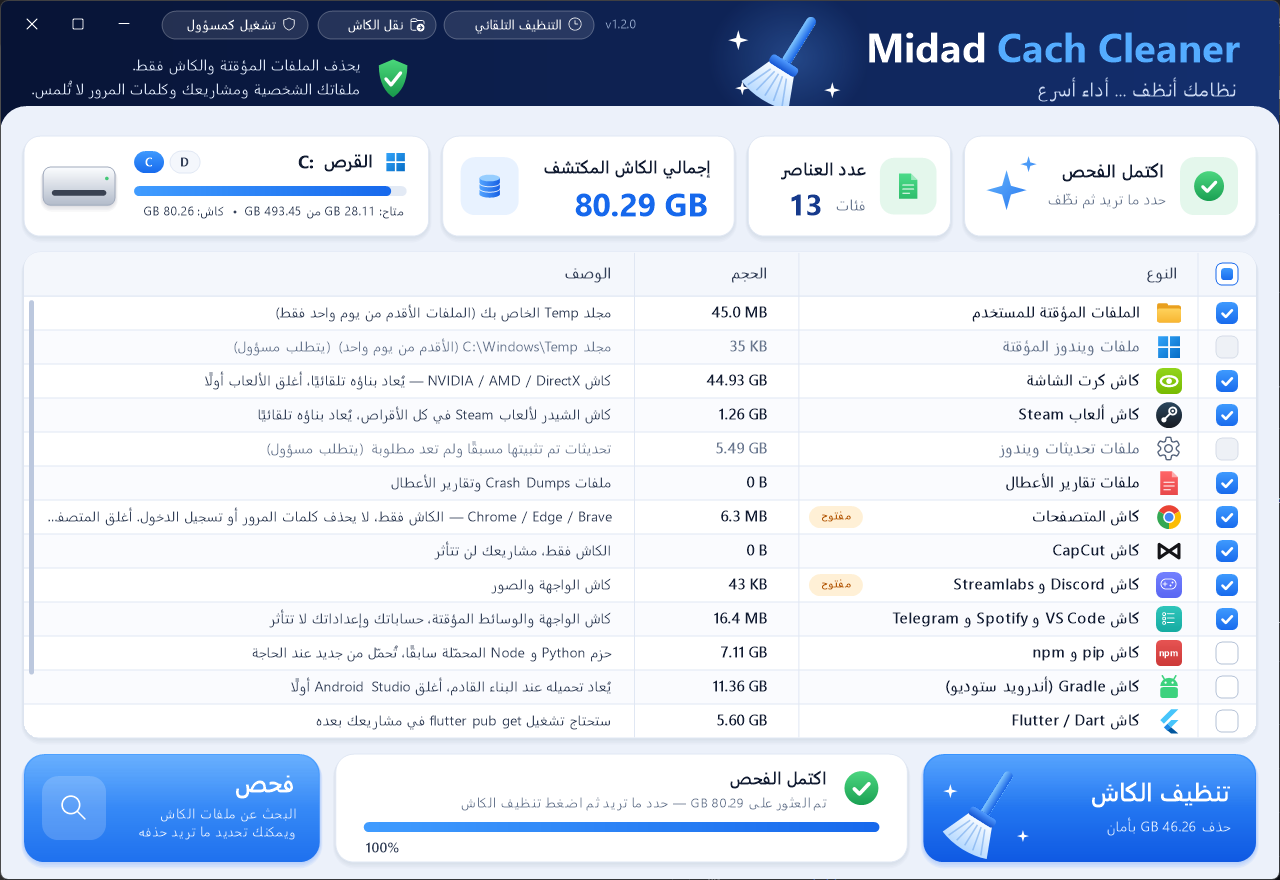
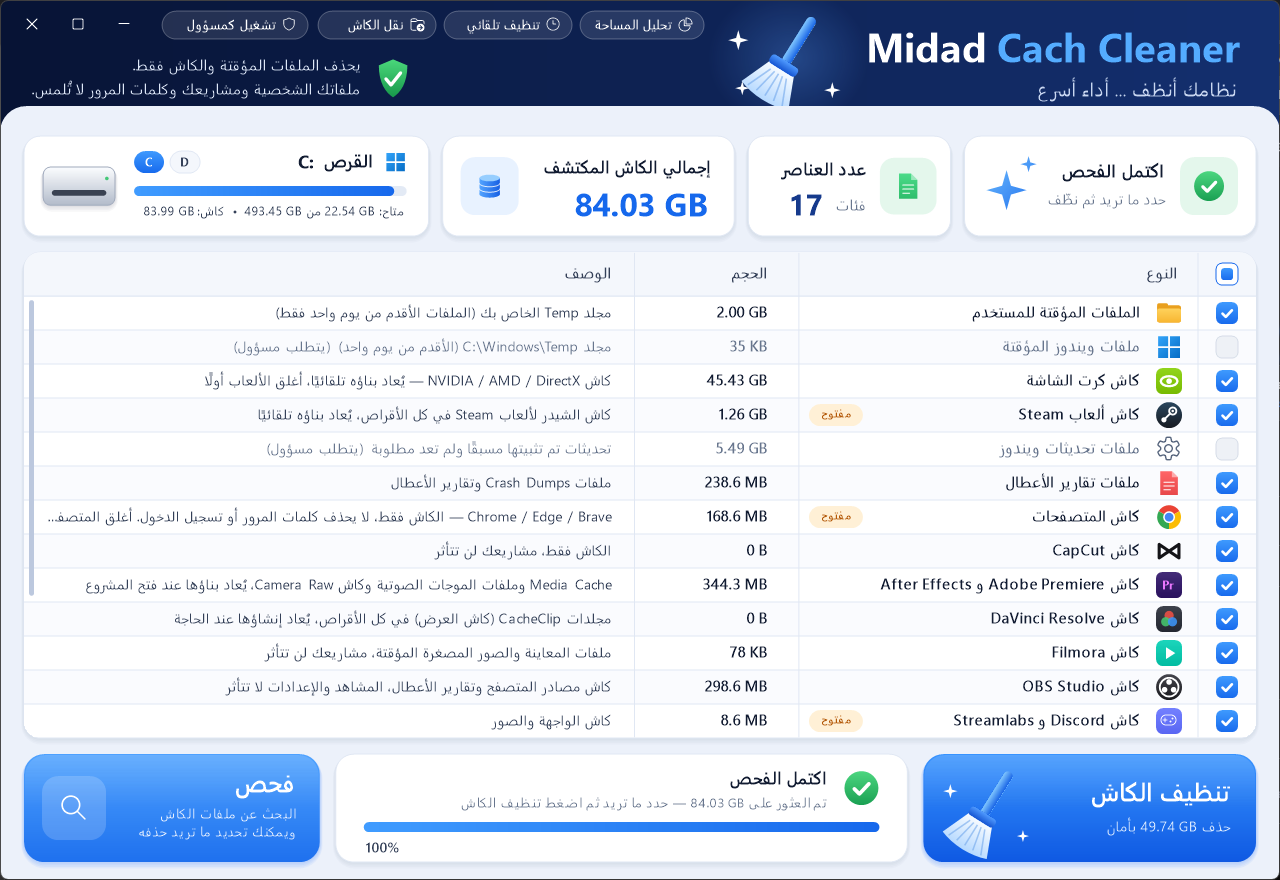
Download page for 1.3.0

diff --git a/README.md b/README.md
@@ -23,7 +23,10 @@
 
 ## المميزات
 
-- **فحص وتنظيف 16 نوعًا من الكاش:** الملفات المؤقتة، كاش كرت الشاشة، Steam، تحديثات ويندوز، تقارير الأعطال، المتصفحات (Chrome / Edge / Brave)، CapCut، Discord، Streamlabs، VS Code، Spotify، Telegram، pip، npm، Gradle، Flutter، NuGet، وسلة المحذوفات.
+- **فحص وتنظيف 19 فئة من الكاش:** الملفات المؤقتة، كاش كرت الشاشة، Steam، تحديثات ويندوز، تقارير الأعطال، المتصفحات (Chrome / Edge / Brave)، CapCut، Discord، Streamlabs، VS Code، Spotify، Telegram، pip، npm، Gradle، Flutter، NuGet، وسلة المحذوفات.
+- **كاش برامج المونتاج والبث:** Adobe Premiere و After Effects (Media Cache وملفات الموجات الصوتية وكاش Camera Raw)، و DaVinci Resolve (CacheClip)، و Filmora، و OBS Studio.
+- **تحليل المساحة:** يعرض أكبر المجلدات (مع الدخول إلى داخلها) وأكبر 100 ملف في أي قرص، مع توضيح للملفات المعروفة مثل hiberfil.sys و Windows.old. يعرض فقط ولا يحذف أي شيء.
+- **التحقق من التحديثات:** يظهر زر أخضر عند صدور إصدار جديد، ويُحدَّث البرنامج بضغطة واحدة. المثبّت يُنزَّل من هذه الصفحة فقط، ولا يُشغَّل إلا إذا طابقت بصمته SHA-256 البصمة المنشورة.
 - **كل الأقراص:** يكتشف الأقراص تلقائيًا ويعرض المساحة الفارغة وحجم الكاش في كل قرص.
 - **تنبيه البرامج المفتوحة:** علامة "مفتوح" بجانب البرامج التي تعمل الآن، لأن ملفاتها المستخدمة لا يمكن حذفها.
 - **زر إيقاف:** يمكن إيقاف الفحص أو التنظيف في أي لحظة.
@@ -31,9 +34,13 @@
 - **تنظيف تلقائي:** يومي أو أسبوعي أو شهري في الخلفية، مع تنبيه عندما تقل مساحة القرص C.
 - **يتذكر اختياراتك** بين مرة وأخرى.
 
-| نقل الكاش | التنظيف التلقائي | المثبّت |
-|---|---|---|
-| ![نقل الكاش](docs/move-caches.png) | ![التنظيف التلقائي](docs/auto-clean.png) | ![المثبّت](docs/setup.png) |
+| تحليل المساحة | نقل الكاش |
+|---|---|
+| ![تحليل المساحة](docs/space.png) | ![نقل الكاش](docs/move-caches.png) |
+
+| التنظيف التلقائي | المثبّت |
+|---|---|
+| ![التنظيف التلقائي](docs/auto-clean.png) | ![المثبّت](docs/setup.png) |
 
 ## الأمان
 
@@ -44,6 +51,7 @@
 - الملفات المستخدمة حاليًا يتخطاها بدون أخطاء.
 - عند **نقل الكاش**: ينسخ أولًا ثم يتحقق من عدد الملفات وحجمها، ولا يحذف المكان القديم إلا بعد نجاح التحقق.
 - التنظيف التلقائي لا يفرّغ سلة المحذوفات، ويتخطى البرامج المفتوحة.
+- **تحليل المساحة** يقرأ فقط: لا يحذف ولا ينقل أي ملف، ولا يتبع الروابط.
 
 ## الإزالة
 
@@ -61,4 +69,4 @@ Get-FileHash .\MidadCachCleaner-Setup.exe -Algorithm SHA256
 
 ---
 
-**English:** Midad Cach Cleaner is a Windows 10/11 app that safely cleans temp files and app caches, moves developer caches to another drive, and can run on a schedule. Download the installer or the portable exe from the [latest release](https://github.com/midad1ar/Midad-Cach-Cleaner-Releases/releases/latest).
+**English:** Midad Cach Cleaner is a Windows 10/11 app that safely cleans temp files and app caches (including Adobe, DaVinci Resolve, Filmora and OBS), shows what fills a drive, moves developer caches to another drive, can run on a schedule, and updates itself with SHA-256 verification. Download the installer or the portable exe from the [latest release](https://github.com/midad1ar/Midad-Cach-Cleaner-Releases/releases/latest).
